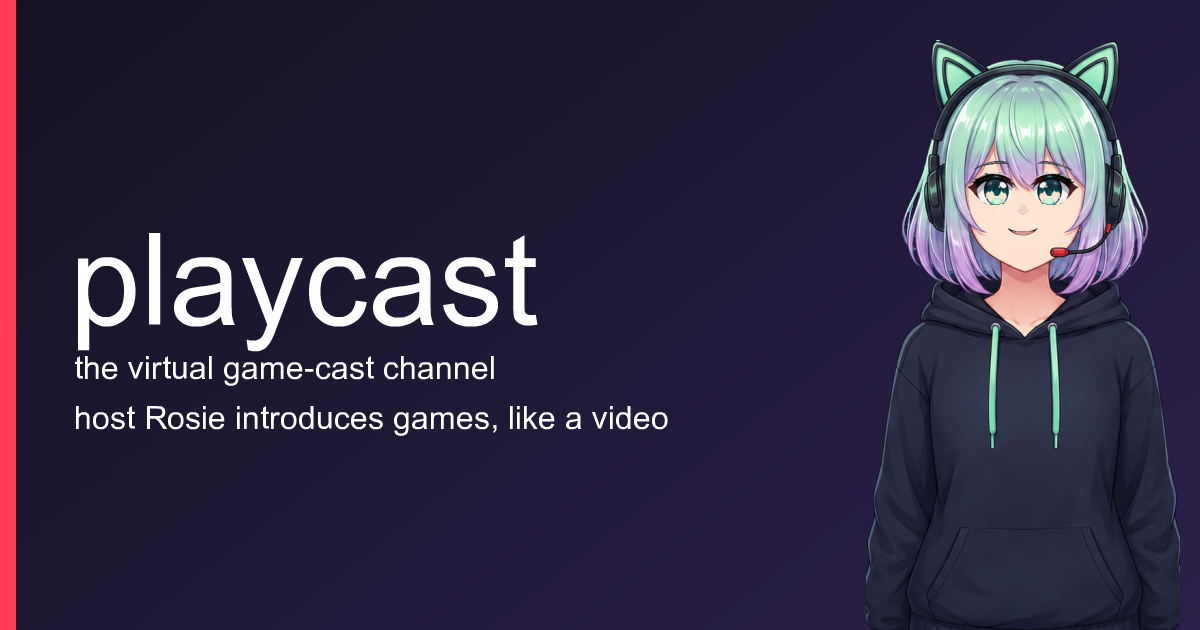
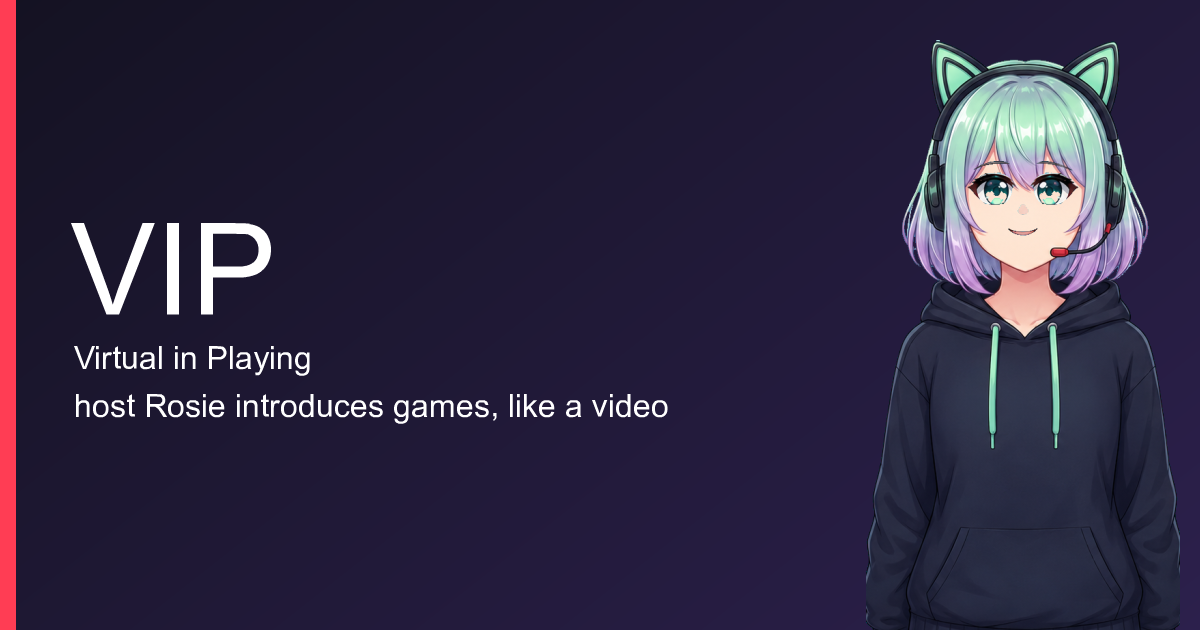
chore: 블로그명 playcast → Virtual in Playing (VIP)
로고 V(I)P, 사이트 제목/설명/OG/RSS/JSON-LD/푸터/채널 바이라인/about 전부
"Virtual in Playing (VIP)"로 교체. 댓글 source도 vip로. og-default 이미지 재생성.
도메인(playcast.vercel.app)은 미배포 상태라 유지.

Changed region(s): [[0.0617, 0.3317, 0.4625, 0.6032], [0.0617, 0.6333, 0.555, 0.6937]]

diff --git a/src/pages/open-graph/[...route].ts b/src/pages/open-graph/[...route].ts
@@ -32,7 +32,7 @@ const _route = await OGImageRoute({
     const dur = page.durationLabel || durLabel(page.scenes);
     return {
       title: page.title,
-      description: `▶ playcast · 로지의 게임 소개 · ${dur}`,
+      description: `▶ VIP · 로지의 게임 소개 · ${dur}`,
       bgGradient: [
         [15, 15, 17],
         [26, 20, 46],

diff --git a/src/pages/rss.xml.js b/src/pages/rss.xml.js
@@ -4,7 +4,7 @@ import { getCollection } from 'astro:content';
 export async function GET(context) {
   const videos = await getCollection('videos', ({ data }) => !data.draft);
   return rss({
-    title: 'playcast — 게임 소개 방송 채널',
+    title: 'Virtual in Playing (VIP) — 게임 소개 방송 채널',
     description: '버츄얼 호스트 로지가 게임을 영상처럼 소개하는 채널',
     site: context.site,
     items: videos

diff --git a/README.md b/README.md
@@ -1,6 +1,6 @@
-# playcast 🎀▶
+# Virtual in Playing (VIP) 🎀▶
 
-**버츄얼 호스트 로지가 게임을 "영상처럼" 소개하는 채널** — 유튜브 시청 페이지 UI 안에서
+**VIP(Virtual in Playing) — 버츄얼 호스트 로지가 게임을 "영상처럼" 소개하는 채널** — 유튜브 시청 페이지 UI 안에서
 배경 크로스페이드 + 타이핑 자막 + 호스트 입모양 애니를 브라우저 타임라인으로 재생하는
 **합성 씬플레이어(가짜 영상, 모션 블로그)**. 실제 영상 파일 0, 정적 배포, 생성비용 0.
 